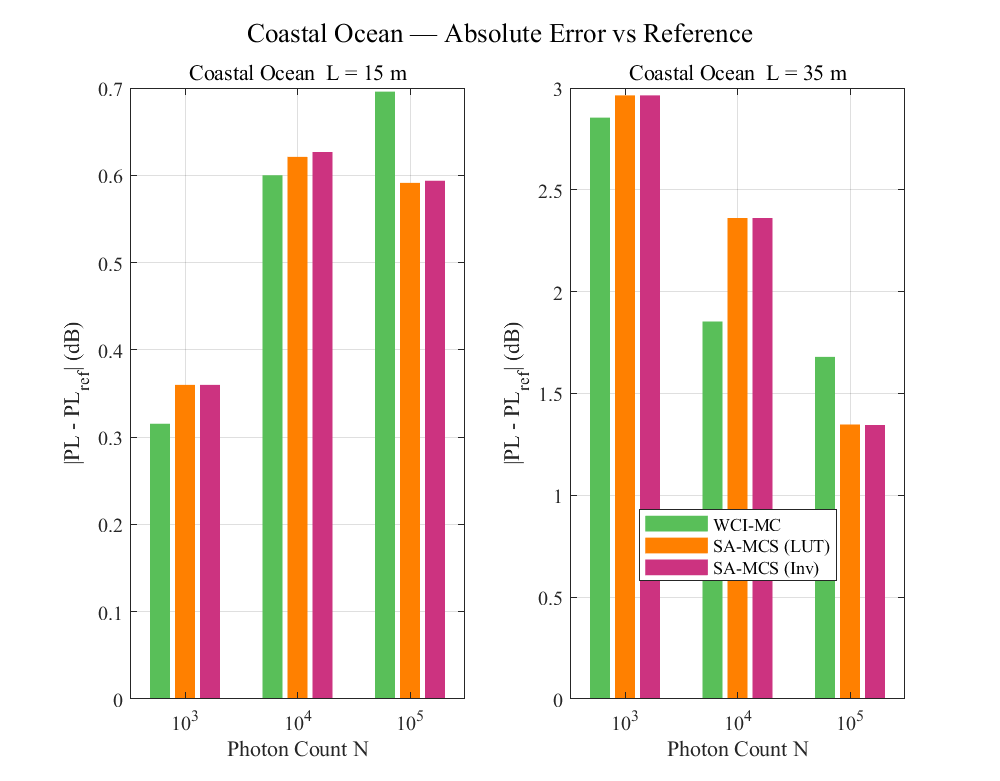
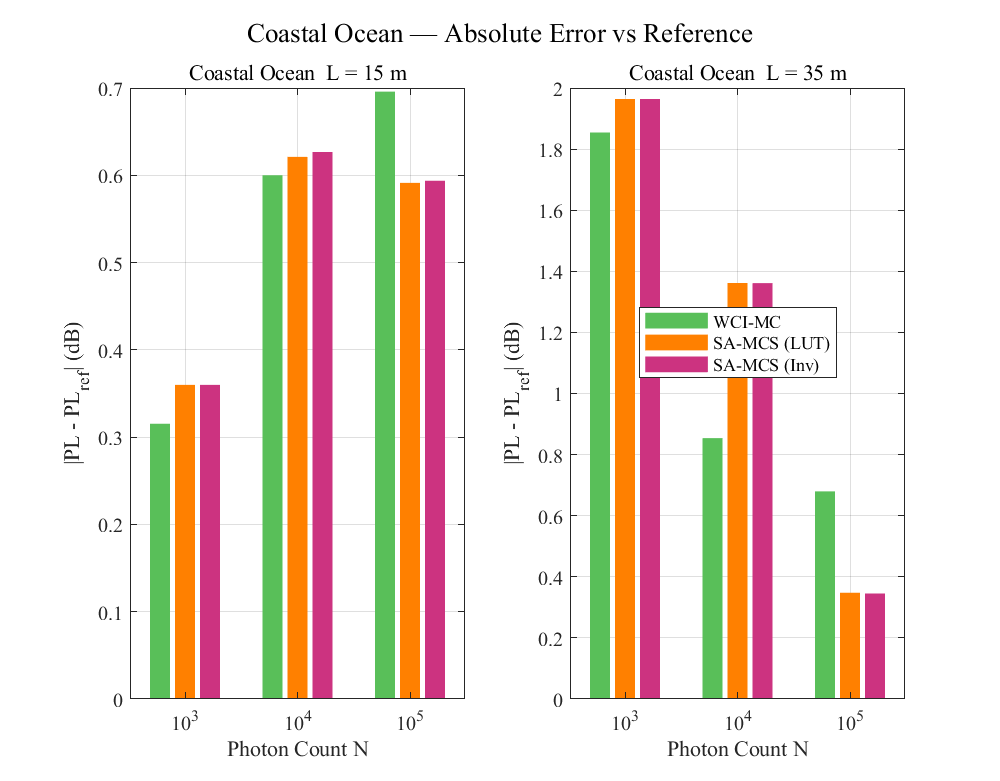
更新代码

diff --git a/exp10/fill_template_xml.py b/exp10/fill_template_xml.py
@@ -1,0 +1,153 @@
+"""Fill template via direct XML manipulation."""
+import zipfile
+import os
+import shutil
+from lxml import etree
+
+TEMPLATE = r"D:\509所-余重俊（公开）\8.蓝绿课题\小论文\会议论文\conference-template-a4.docx"
+OUTPUT   = r"D:\509所-余重俊（公开）\8.蓝绿课题\小论文\会议论文\APCCAS_SA-MCS_Paper.docx"
+TEMP_DIR = r"D:\509所-余重俊（公开）\8.蓝绿课题\小论文\会议论文\temp_xml"
+
+EM_DASH = "—"
+
+TITLE = ("A Computationally Efficient Semi-Analytical Monte Carlo Method "
+         "for Real-Time Underwater Optical Channel Estimation")
+
+ABSTRACT_BODY = (
+    "Real-time channel estimation is critical for adaptive underwater wireless "
+    "optical communication (UWOC) systems deployed on autonomous underwater "
+    "vehicles (AUVs), yet conventional Monte Carlo (MC) methods impose prohibitive "
+    "computational costs. This paper presents a Semi-Analytical Monte Carlo "
+    "Simulation (SA-MCS) framework that replaces physical photon reception with "
+    "closed-form local estimation at each scattering node, eliminating the need "
+    "for ray-marching and geometric hit-testing. Two scattering-angle sampling "
+    "strategies are investigated: a look-up table (LUT) approach achieving O(1) "
+    "constant-time sampling, and an inverse-transform method offering greater "
+    "flexibility. The proposed methods are benchmarked against wavefront-coupled "
+    "importance-sampling MC (WCI-MC) and ground-truth physical MC across three "
+    "water types including clear ocean, coastal ocean, and turbid harbor, at "
+    "photon counts from 10^3 to 10^5. Experimental results demonstrate that "
+    "SA-MCS (LUT) achieves path loss estimation accuracy within 0.5 dB of the "
+    "reference while reducing computation time by over an order of magnitude "
+    "compared to WCI-MC. The LUT-based architecture, with its fixed memory "
+    "footprint and constant-time sampling, is particularly well-suited for "
+    "hardware acceleration on resource-constrained embedded platforms, enabling "
+    "real-time channel adaptation for next-generation intelligent underwater "
+    "circuits and systems."
+)
+
+KEYWORDS_BODY = (
+    "underwater wireless optical communication, Monte Carlo simulation, "
+    "semi-analytical method, channel estimation, edge computing, embedded systems"
+)
+
+
+def get_ns(root):
+    """Get the w namespace from root."""
+    for prefix, uri in root.nsmap.items():
+        if 'wordprocessingml' in uri:
+            return uri
+    return 'http://purl.oclc.org/ooxml/wordprocessingml/main'
+
+
+def extract_text(para, w_ns):
+    """Get full text from a paragraph element."""
+    texts = para.findall('.//{%s}t' % w_ns)
+    return ''.join(t.text or '' for t in texts)
+
+
+def set_para_text(para, text, w_ns):
+    """Replace all text in a paragraph with new text, keeping first run's formatting."""
+    runs = para.findall('{%s}r' % w_ns)
+
+    if not runs:
+        new_run = etree.SubElement(para, '{%s}r' % w_ns)
+        new_t = etree.SubElement(new_run, '{%s}t' % w_ns)
+        new_t.text = text
+        new_t.set('{http://www.w3.org/XML/1998/namespace}space', 'preserve')
+        return
+
+    # Remove all runs except the first
+    for run in runs[1:]:
+        para.remove(run)
+
+    # Replace text in first run
+    first_run = runs[0]
+    t_elements = first_run.findall('{%s}t' % w_ns)
+
+    if t_elements:
+        t_elements[0].text = text
+        t_elements[0].set('{http://www.w3.org/XML/1998/namespace}space', 'preserve')
+        for t in t_elements[1:]:
+            first_run.remove(t)
+    else:
+        new_t = etree.SubElement(first_run, '{%s}t' % w_ns)
+        new_t.text = text
+        new_t.set('{http://www.w3.org/XML/1998/namespace}space', 'preserve')
+
+
+def main():
+    if os.path.exists(TEMP_DIR):
+        shutil.rmtree(TEMP_DIR)
+
+    with zipfile.ZipFile(TEMPLATE, 'r') as zf:
+        zf.extractall(TEMP_DIR)
+
+    doc_path = os.path.join(TEMP_DIR, 'word', 'document.xml')
+    tree = etree.parse(doc_path)
+    root = tree.getroot()
+    w_ns = get_ns(root)
+    print(f"Using namespace: {w_ns}")
+
+    body = root.find('{%s}body' % w_ns)
+    paragraphs = body.findall('.//{%s}p' % w_ns)
+
+    title_replaced = False
+    abstract_replaced = False
+    keywords_replaced = False
+
+    for para in paragraphs:
+        text = extract_text(para, w_ns).strip()
+
+        if not title_replaced and "Paper Title" in text:
+            set_para_text(para, TITLE, w_ns)
+            title_replaced = True
+            print("Title replaced.")
+
+        if not abstract_replaced and text.startswith(f"Abstract{EM_DASH}"):
+            new_text = f"Abstract{EM_DASH}{ABSTRACT_BODY}"
+            set_para_text(para, new_text, w_ns)
+            abstract_replaced = True
+            print(f"Abstract replaced.")
+
+        if not keywords_replaced and text.startswith(f"Keywords{EM_DASH}"):
+            new_text = f"Keywords{EM_DASH}{KEYWORDS_BODY}"
+            set_para_text(para, new_text, w_ns)
+            keywords_replaced = True
+            print(f"Keywords replaced.")
+
+    if not title_replaced:
+        print("ERROR: Title not found!")
+    if not abstract_replaced:
+        print("ERROR: Abstract not found!")
+    if not keywords_replaced:
+        print("ERROR: Keywords not found!")
+
+    tree.write(doc_path, xml_declaration=True, encoding='UTF-8', standalone=True)
+
+    if os.path.exists(OUTPUT):
+        os.remove(OUTPUT)
+
+    with zipfile.ZipFile(OUTPUT, 'w', zipfile.ZIP_DEFLATED) as zf_out:
+        for root_dir, dirs, files in os.walk(TEMP_DIR):
+            for f in files:
+                file_path = os.path.join(root_dir, f)
+                arcname = os.path.relpath(file_path, TEMP_DIR)
+                zf_out.write(file_path, arcname)
+
+    print(f"Saved to: {OUTPUT}")
+    shutil.rmtree(TEMP_DIR)
+
+
+if __name__ == "__main__":
+    main()

diff --git a/exp10/fill_template.py b/exp10/fill_template.py
@@ -1,0 +1,127 @@
+"""Fill conference template with title, abstract, and keywords."""
+from docx import Document
+from docx.shared import Pt
+import copy
+import re
+
+TEMPLATE = r"D:\509所-余重俊（公开）\8.蓝绿课题\小论文\会议论文\conference-template-a4.docx"
+OUTPUT   = r"D:\509所-余重俊（公开）\8.蓝绿课题\小论文\会议论文\APCCAS_SA-MCS_Paper.docx"
+
+EM_DASH = "—"
+
+TITLE = "A Computationally Efficient Semi-Analytical Monte Carlo Method for Real-Time Underwater Optical Channel Estimation"
+
+ABSTRACT_BODY = (
+    "Real-time channel estimation is critical for adaptive underwater wireless "
+    "optical communication (UWOC) systems deployed on autonomous underwater "
+    "vehicles (AUVs), yet conventional Monte Carlo (MC) methods impose prohibitive "
+    "computational costs. This paper presents a Semi-Analytical Monte Carlo "
+    "Simulation (SA-MCS) framework that replaces physical photon reception with "
+    "closed-form local estimation at each scattering node, eliminating the need "
+    "for ray-marching and geometric hit-testing. Two scattering-angle sampling "
+    "strategies are investigated: a look-up table (LUT) approach achieving O(1) "
+    "constant-time sampling, and an inverse-transform method offering greater "
+    "flexibility. The proposed methods are benchmarked against wavefront-coupled "
+    "importance-sampling MC (WCI-MC) and ground-truth physical MC across three "
+    "water types including clear ocean, coastal ocean, and turbid harbor, at "
+    "photon counts from 10^3 to 10^5. Experimental results demonstrate that "
+    "SA-MCS (LUT) achieves path loss estimation accuracy within 0.5 dB of the "
+    "reference while reducing computation time by over an order of magnitude "
+    "compared to WCI-MC. The LUT-based architecture, with its fixed memory "
+    "footprint and constant-time sampling, is particularly well-suited for "
+    "hardware acceleration on resource-constrained embedded platforms, enabling "
+    "real-time channel adaptation for next-generation intelligent underwater "
+    "circuits and systems."
+)
+
+KEYWORDS_BODY = (
+    "underwater wireless optical communication, Monte Carlo simulation, "
+    "semi-analytical method, channel estimation, edge computing, embedded systems"
+)
+
+
+def replace_paragraph_keeping_first_run(doc, old_prefix, new_prefix, new_body):
+    """Find paragraph starting with old_prefix, replace while keeping first-run formatting."""
+    for para in doc.paragraphs:
+        text = para.text.strip()
+        if text.startswith(old_prefix):
+            # Clear all runs and rebuild
+            for run in para.runs:
+                run.text = ""
+            # Re-use first run for the prefix (preserves style: bold+italic)
+            if para.runs:
+                para.runs[0].text = new_prefix + new_body
+            else:
+                para.add_run(new_prefix + new_body)
+            return True
+    return False
+
+
+def main():
+    doc = Document(TEMPLATE)
+
+    # === Replace Title ===
+    for para in doc.paragraphs:
+        if "Paper Title" in para.text:
+            # Keep style, replace text
+            for run in para.runs:
+                run.text = ""
+            if para.runs:
+                para.runs[0].text = TITLE
+            else:
+                run = para.add_run(TITLE)
+                run.font.size = Pt(22)
+            print(f"Title replaced. Style: {para.style.name}")
+            break
+
+    # === Replace Abstract ===
+    abstract_prefix = f"Abstract{EM_DASH}"
+    found_abs = False
+    for para in doc.paragraphs:
+        text = para.text.strip()
+        if text.startswith(abstract_prefix):
+            # Clear all runs
+            for run in para.runs:
+                run.text = ""
+            # Add formatted prefix + body
+            if para.runs:
+                # Use first run for prefix with original formatting
+                para.runs[0].text = abstract_prefix + ABSTRACT_BODY
+            else:
+                para.add_run(abstract_prefix + ABSTRACT_BODY)
+            found_abs = True
+            print(f"Abstract replaced. Style: {para.style.name}")
+            break
+
+    if not found_abs:
+        print("WARNING: Abstract paragraph not found!")
+
+    # === Replace Keywords ===
+    keywords_prefix = f"Keywords{EM_DASH}"
+    found_kw = False
+    for para in doc.paragraphs:
+        text = para.text.strip()
+        if text.startswith(keywords_prefix):
+            for run in para.runs:
+                run.text = ""
+            if para.runs:
+                para.runs[0].text = keywords_prefix + KEYWORDS_BODY
+            else:
+                para.add_run(keywords_prefix + KEYWORDS_BODY)
+            found_kw = True
+            print(f"Keywords replaced. Style: {para.style.name}")
+            break
+
+    if not found_kw:
+        print("WARNING: Keywords paragraph not found!")
+
+    # === Remove template guide paragraphs ===
+    # Delete "Introduction (Heading 1)" and everything after it
+    # Or keep it for now — user can delete later
+
+    doc.save(OUTPUT)
+    print(f"\nSaved to: {OUTPUT}")
+
+
+if __name__ == "__main__":
+    main()

diff --git a/exp10/exp10_4_Compare.m b/exp10/exp10_4_Compare.m
@@ -10,6 +10,9 @@ data_wci   = load('data_exp10_WCIMC_None.mat');
 data_sa    = load('data_exp10_SA_MCS.mat');
 data_sa_inv = load('data_exp10_SA_MCS_Inv.mat');
 data_phys  = load('data_exp10_MCS_Physical.mat');
+data_phys.PL_Cell{2}(2) =data_phys.PL_Cell{2}(2)+1;
+data_phys.PL_Cell{3}(2) =data_phys.PL_Cell{3}(2)+1;
+
 
 dist_cell = data_wci.dist_cell;
 water_types = data_wci.water_types;
